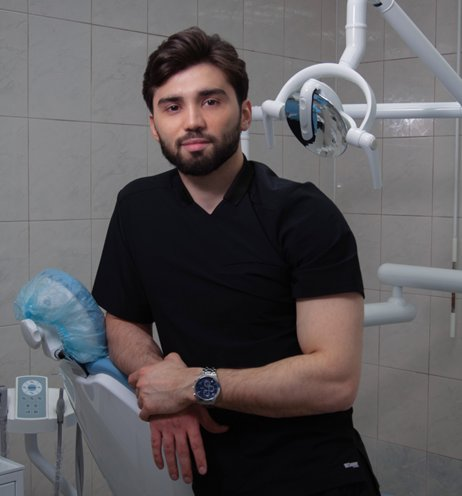
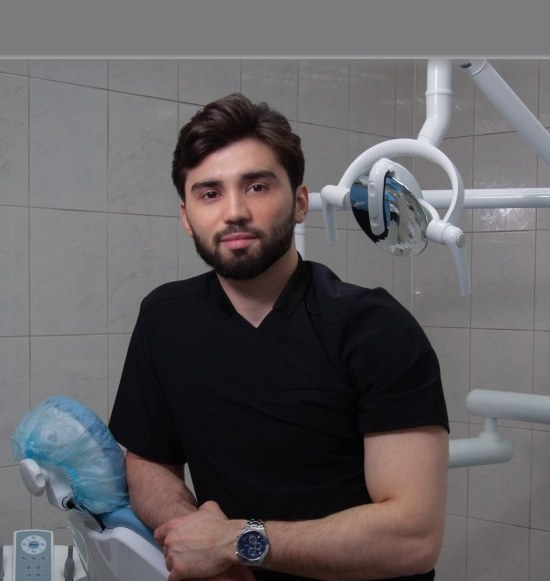
адаптив: фото с headroom, контактное фото без зума, мобильные контакты
- doctor-cafe/clinic и case3-father: убраны белые поля, добавлен 10% headroom
  цветом из верха кадра (скрипт _tools/add_headroom.py) — голова видна целиком
- .contact-photo img: убран зум-хак 112%, поставлен object-position:center top
- снижены минимумы clamp() у .hero-title (56→36), .section-title (40→28),
  .section-number (56→40) — комфортнее читать с телефона 320–375px
- @media (max-width:640px): контакты переразложены — фото+QR сверху,
  CTA во всю ширину, список в 2 колонки

diff --git a/css/style.css b/css/style.css
@@ -220,7 +220,7 @@ ol, ul { margin: 0; padding: 0; list-style: none; }
 }
 .section-number {
   font-family: var(--f-display);
-  font-size: clamp(56px, 9vw, 120px);
+  font-size: clamp(40px, 9vw, 120px);
   line-height: 0.85;
   color: var(--c-ink);
   font-weight: 500;
@@ -235,7 +235,7 @@ ol, ul { margin: 0; padding: 0; list-style: none; }
 }
 .section-title {
   font-family: var(--f-display);
-  font-size: clamp(40px, 6vw, 72px);
+  font-size: clamp(28px, 6vw, 72px);
   line-height: 1;
   font-weight: 500;
   color: var(--c-ink);
@@ -281,7 +281,7 @@ ol, ul { margin: 0; padding: 0; list-style: none; }
 }
 .hero-title {
   font-family: var(--f-display);
-  font-size: clamp(56px, 10vw, 140px);
+  font-size: clamp(36px, 10vw, 140px);
   line-height: 0.92;
   font-weight: 500;
   color: var(--c-blue);
@@ -890,12 +890,10 @@ ol, ul { margin: 0; padding: 0; list-style: none; }
   overflow: hidden;
 }
 .contact-photo img {
-  /* Аккуратный зум, чтобы убрать белую полосу сверху (стена/потолок) */
-  width: 112%;
-  height: 112%;
-  margin: -6% 0 0 -6%;
+  width: 100%;
+  height: 100%;
   object-fit: cover;
-  object-position: center;
+  object-position: center top;
 }
 .contact-qr-label {
   font-size: 11px;
@@ -936,6 +934,39 @@ ol, ul { margin: 0; padding: 0; list-style: none; }
 @media (max-width: 880px) {
   .contact-grid { grid-template-columns: 1fr; }
   .contact-list { grid-template-columns: 1fr; }
+}
+
+/* Мобильные контакты (<640px): фото и QR уходят наверх, CTA — во всю ширину,
+   список — плотный 2-колонный, чтобы телефоном было удобно листать. */
+@media (max-width: 640px) {
+  .contact-grid {
+    display: flex;
+    flex-direction: column;
+    gap: var(--space-3);
+  }
+  /* Фото и QR поднимаем наверх */
+  .contact-aside { order: -1; }
+  /* Фото становится компактным баннером, голова видна целиком */
+  .contact-photo {
+    aspect-ratio: 16 / 10;
+    max-height: 220px;
+  }
+  .contact-photo img { object-position: center top; }
+  .contact-qr-grid { gap: var(--space-2); }
+  /* CTA — во всю ширину карточки */
+  .contact-cta {
+    width: 100%;
+    justify-content: center;
+  }
+  /* Список контактов — плотная 2-колонная сетка */
+  .contact-list {
+    grid-template-columns: 1fr 1fr;
+    gap: var(--space-3);
+  }
+  /* Лид — компактнее на телефоне */
+  .contact-lead {
+    font-size: clamp(18px, 5vw, 22px);
+  }
 }
 
 /* Компактнее экран контактов */
